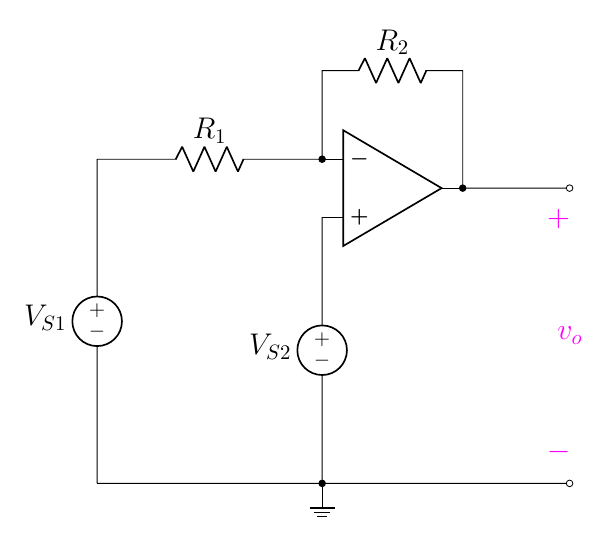
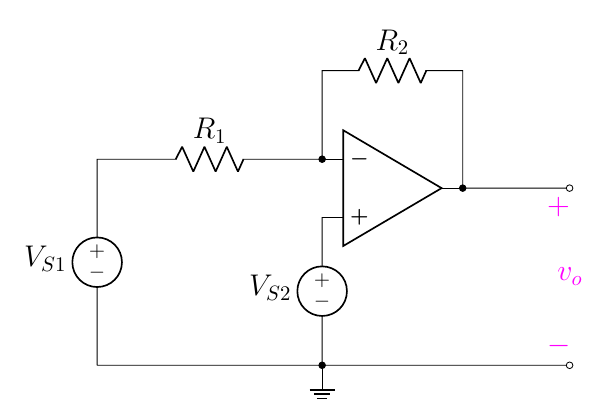
edit 5.21

diff --git a/1.9 Simple Op Amp/5 Op Amp/5.21(new).tex b/1.9 Simple Op Amp/5 Op Amp/5.21(new).tex
@@ -2,7 +2,7 @@
 \begin{document}
 \begin{circuitikz}[american,cute inductors]
     \input{../../preamble2.tex}
-    \draw (5,5) node[op amp,noinv input down](oa){};
+    \draw (5,3) node[op amp,noinv input down](oa){};
 
 
     \draw(0,0)
@@ -23,8 +23,8 @@
     % \draw[magenta](8,3.5)  
     %     to[open,v^=$v_o$] ++(0,-2);
 
-    \draw[magenta](7.5,5)  
-        to[open,v^=$v_o$] ++(0,-5);
+    \draw[magenta](7.5,3)  
+        to[open,v^=$v_o$] ++(0,-3);
 
     % \draw[circuitikz/current arrow color=magenta](5,5)
     % to[open,f>^=$\color{magenta}{i_o}$] ++(2,0);
